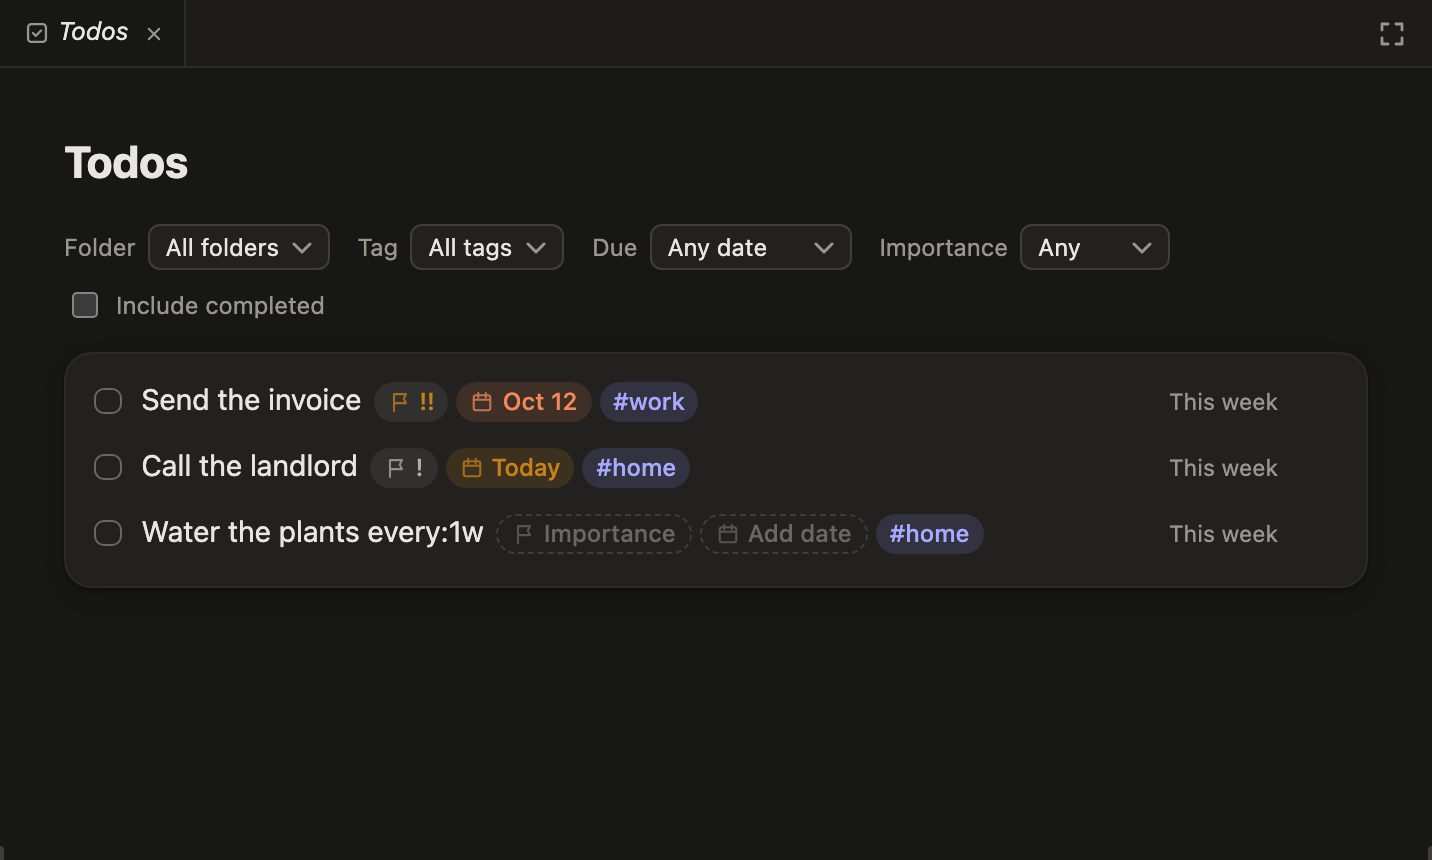
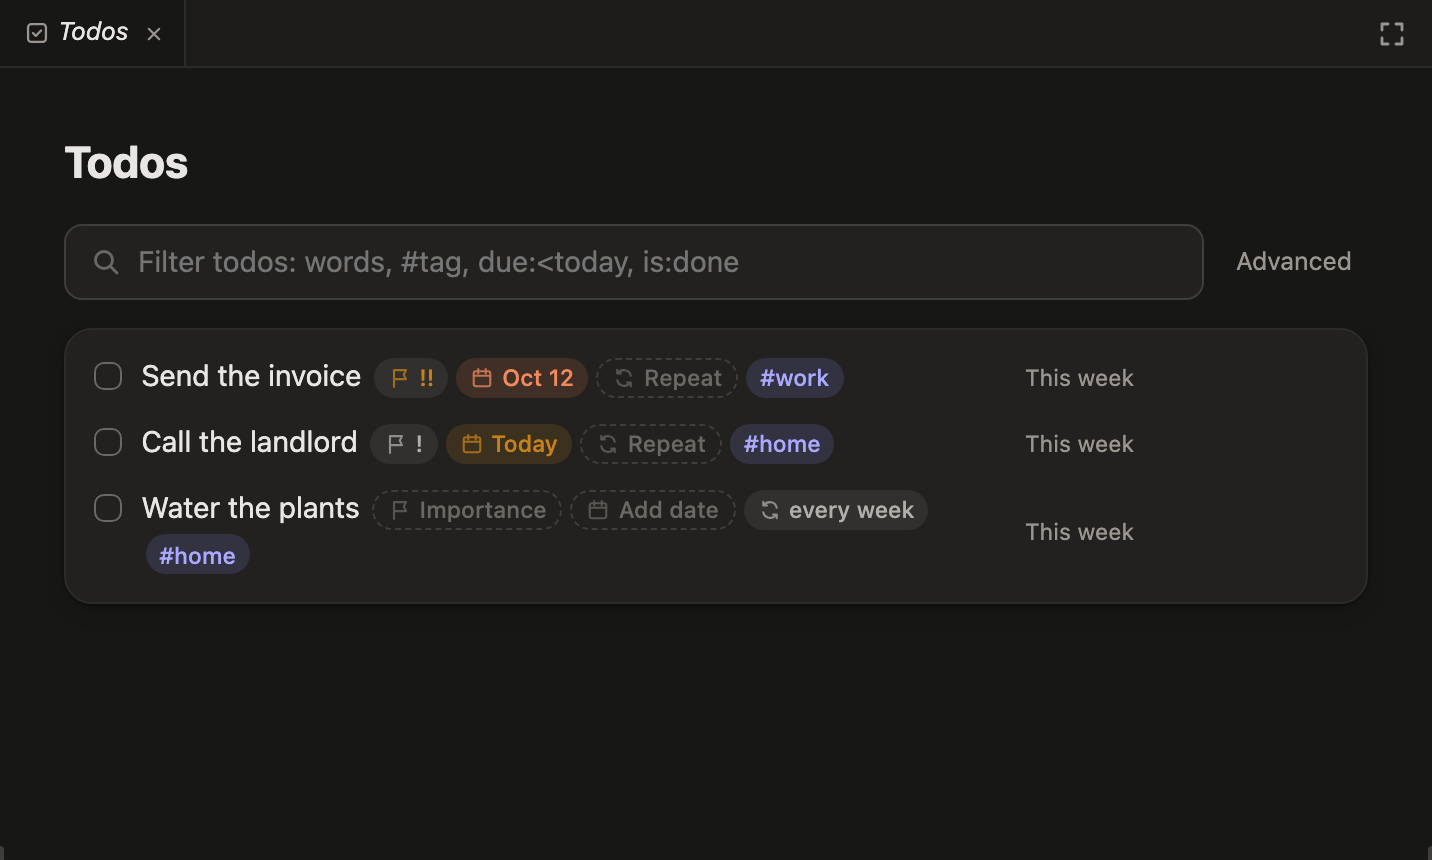
Search: the inspector is about the notes the Search page lists, the query says has:repeat, and the todos of a note in Trash are read-only

diff --git a/test/browser/search.spec.ts b/test/browser/search.spec.ts
@@ -1,5 +1,5 @@
 import { expect, test, type Page } from "@playwright/test";
-import { listedNote, noteIdIn, openAllNotes, perform, signInAsNewPerson } from "./helpers.ts";
+import { listedNote, noteIdIn, openAllNotes, perform, pinPanel, signInAsNewPerson } from "./helpers.ts";
 
 let errors: string[];
 test.beforeEach(({ page }) => {
@@ -33,6 +33,47 @@ const GARDEN = "# Garden plan\n\nPlant the tomatoes by the fence.\n";
 const ERRANDS = "# Errands\n\n- [ ] Call the bank about the mortgage +Home\n";
 const READING = "# Reading\n\nNotes on gardening books #botany\n";
 const SCRAPS = "# Scraps\n\nfence the by, tomatoes later\n";
+
+test("the inspector is about the notes the search lists: Info counts them and History is theirs, and both follow the query", async ({ page }) => {
+  await searching(page, [GARDEN, ERRANDS, READING, SCRAPS]);
+  await pinPanel(page, "Info");
+  const panel = page.getByRole("complementary", { name: "Inspector" });
+  await expect(panel.getByRole("term")).toHaveText(["Showing", "Notes", "Last changed"]);
+  await expect(panel.getByRole("definition").first()).toHaveText("Search");
+  await expect(panel.getByRole("definition").nth(1)).toHaveText("4 notes");
+  await field(page).fill("fence");
+  await expect(titles(page)).toHaveCount(2);
+  await expect(panel.getByRole("definition").first()).toHaveText("Search: fence");
+  await expect(panel.getByRole("definition").nth(1)).toHaveText("2 notes");
+  await page.getByRole("navigation", { name: "Inspector bar" }).getByRole("button", { name: "History" }).click();
+  const changed = panel.getByRole("tree", { name: "Notes that changed" }).locator('[aria-level="1"]');
+  await expect(changed).toHaveCount(2);
+  await expect(changed.filter({ hasText: "Garden plan" })).toHaveCount(1);
+  await expect(changed.filter({ hasText: "Scraps" })).toHaveCount(1);
+  await field(page).fill("tomatoes in:title");
+  await expect(nothing(page)).toBeVisible();
+  await expect(changed).toHaveCount(0);
+});
+
+test("while a search is on its way the inspector says what it said of the last answer, never the new query with the old notes", async ({ page }) => {
+  await searching(page, [GARDEN, ERRANDS, READING, SCRAPS]);
+  await pinPanel(page, "Info");
+  const panel = page.getByRole("complementary", { name: "Inspector" });
+  await expect(panel.getByRole("definition").nth(1)).toHaveText("4 notes");
+  let release!: () => void;
+  const held = new Promise<void>((resolve) => (release = resolve));
+  await page.route("**/ops", async (route) => {
+    if (route.request().postData()?.includes('"type":"search"')) await held;
+    await route.fallback();
+  });
+  await field(page).fill("fence");
+  await expect(status(page)).toContainText("Searching");
+  await expect(panel.getByRole("definition").first()).toHaveText("Search");
+  await expect(panel.getByRole("definition").nth(1)).toHaveText("4 notes");
+  release();
+  await expect(panel.getByRole("definition").first()).toHaveText("Search: fence");
+  await expect(panel.getByRole("definition").nth(1)).toHaveText("2 notes");
+});
 
 test("search finds a note by a word of its text, a todo's words, a tag, and a phrase in quotes", async ({ page }) => {
   await searching(page, [GARDEN, ERRANDS, READING, SCRAPS]);
@@ -643,7 +684,7 @@ test("the ? in Advanced lists every filter and operator with what it means, and 
     expect(forms, form).toContain(form);
   }
   // What is for todos alone is not offered where notes are searched.
-  for (const form of ["due:DAY", "importance:N", "is:done", "has:recurrence", "sort:due-asc"]) expect(forms, form).not.toContain(form);
+  for (const form of ["due:DAY", "importance:N", "is:done", "has:repeat", "sort:due-asc"]) expect(forms, form).not.toContain(form);
   await expect(help.getByRole("row").filter({ hasText: "is:archived" }).first()).toContainText("Archived. A query that doesn't say so leaves archived notes out");
 
   await help.getByRole("button", { name: "is:archived", exact: true }).click();

diff --git a/src/web/plugins/noteList.tsx b/src/web/plugins/noteList.tsx
@@ -1,5 +1,5 @@
 import { useEffect, useId, useLayoutEffect, useMemo, useReducer, useRef, useState, useSyncExternalStore, type KeyboardEvent, type MouseEvent, type ReactNode } from "react";
-import { ALL_NOTES, Icon, NOTE_DRAG, SHARED_WITH_ME, ago, dayOf, folderTitle, parseQuery, queryNames, useNow, type App, type FolderProps, type NoteSummary, type Plugin, type PluginHost, type SearchMatch } from "../plugin-api.ts";
+import { ALL_NOTES, Icon, NOTE_DRAG, SHARED_WITH_ME, ago, dayOf, folderTitle, parseQuery, queryNames, useInspected, useNow, type App, type Showing, type FolderProps, type NoteSummary, type Plugin, type PluginHost, type SearchMatch } from "../plugin-api.ts";
 import { reasonOf } from "./lib/FoundNote.tsx";
 import { lifecycle } from "./lib/lifecycle.ts";
 import { ContextMenu } from "./lib/Menu.tsx";
@@ -35,6 +35,8 @@ export interface FinderProps extends FolderProps {
   queryOnly?: boolean;
   /** Whether the search field takes the keyboard when the list is drawn. */
   autoFocus?: boolean;
+  /** Whether the inspector is about the notes listed, called by the heading and the query, as on the Search page. */
+  inspected?: boolean;
   /** Takes the search out of this folder to every note, for a list that is of one folder. */
   onWiden?: () => void;
 }
@@ -93,7 +95,7 @@ function folderForNew(app: App, folderId: string) {
  * nothing typed it is the notes the app already holds, and nothing is asked of the server. With
  * something typed it is what the server's search finds in the folder, each card with the lines that matched.
  */
-export function NoteFinder({ app, host, folderId, readNote, snippets, view, act, kept, heading, queryOnly, autoFocus, onWiden }: FinderProps) {
+export function NoteFinder({ app, host, folderId, readNote, snippets, view, act, kept, heading, queryOnly, autoFocus, inspected, onWiden }: FinderProps) {
   const ids = useId();
   const now = useNow();
   const { setArchived, items: menuFor } = useMemo(() => lifecycle(host), [host]);
@@ -209,6 +211,13 @@ export function NoteFinder({ app, host, folderId, readNote, snippets, view, act,
     });
   }, [inFolder, search, view.show, view.hasTodos, view.sort, order, namesArchived, namesTrashed, app.notes, app.trashed, folderId]);
   const notes = items.map((item) => item.note);
+  // History is then the history of the notes found, and Info counts them, each following the query.
+  // Told only once the list answers its query: while a search is on its way it says what it said before.
+  const told = useRef<Showing | null>(null);
+  if (inFolder && (!asked || (search.status === "listed" && search.ask.query === asked))) {
+    told.current = { kind: "notes", label: [heading ?? "Notes", view.query.trim()].filter(Boolean).join(": "), noteIds: notes.map((n) => n.id).sort() };
+  }
+  useInspected(app, inspected ? told.current : null);
 
   /**
    * Where the list was scrolled to when it was last drawn. It goes back there as its expanded

diff --git a/test/core/query-ops.test.ts b/test/core/query-ops.test.ts
@@ -281,8 +281,8 @@ describe("todo.list, by each filter", () => {
     expect(await todos(ada, "importance:0")).toEqual(["Tidy the roadmap"]);
     expect(await todos(ada, "importance:<2")).toEqual(["Tidy the roadmap"]);
     expect(await todos(ada, "importance:1..2 (is:archived OR is:open)")).toEqual(["Call the bank #urgent", "Shred it"]);
-    expect(await todos(ada, "has:recurrence")).toEqual(["Ship the plan"]);
-    expect(await todos(ada, "no:recurrence")).toEqual(["Call the bank #urgent", "Tidy the roadmap"]);
+    expect(await todos(ada, "has:repeat")).toEqual(["Ship the plan"]);
+    expect(await todos(ada, "no:repeat")).toEqual(["Call the bank #urgent", "Tidy the roadmap"]);
   });
 
   it("looks for words in the todo's own line, or with in:title in its note's title, and narrows by what its note is", async () => {
@@ -336,13 +336,13 @@ describe("todo.list, by each filter", () => {
   it("knows which todos recur from the index, and of a note indexed before it could say so once the note is read in again", async () => {
     const ada = await newMember();
     const note = await perform(env.DB, ada, { type: "note.create", text: "# Chores\n\n- [ ] Water plants every:3d\n- [ ] Read the docs on `every:2w`\n- [ ] Sweep" });
-    expect(await todos(ada, "has:recurrence")).toEqual(["Water plants"]);
+    expect(await todos(ada, "has:repeat")).toEqual(["Water plants"]);
     // As the migration leaves a line it can't read the rule of: marked by the look of it, until the note is read in again.
     await env.DB.batch([env.DB.prepare("UPDATE todos SET recurs = text LIKE '% every:%' WHERE note_id = ?").bind(note.id), env.DB.prepare("UPDATE notes SET indexed = 3 WHERE id = ?").bind(note.id)]);
-    expect(await todos(ada, "has:recurrence")).toEqual(["Water plants"]);
+    expect(await todos(ada, "has:repeat")).toEqual(["Water plants"]);
     expect((await env.DB.prepare("SELECT indexed FROM notes WHERE id = ?").bind(note.id).first<{ indexed: number }>())!.indexed).toBe(4);
     await perform(env.DB, ada, { type: "todo.set", id: note.id, revision: 1, line: 4, text: "- [ ] Sweep", every: "1w" });
-    expect((await todos(ada, "has:recurrence")).sort()).toEqual(["Sweep", "Water plants"]);
+    expect((await todos(ada, "has:repeat")).sort()).toEqual(["Sweep", "Water plants"]);
 
     // And a line's words, which the migration can only put in small letters: an accent is found once the note is read in again.
     const menu = await perform(env.DB, ada, { type: "note.create", text: "# Menu\n\n- [ ] Order Crème brûlée" });

diff --git a/test/browser/todos.spec.ts b/test/browser/todos.spec.ts
@@ -1308,6 +1308,19 @@ test("the toast is v1's: in the bottom right corner in the app's colours, Task c
   expect(Date.now() - left).toBeGreaterThan(1500);
 });
 
+test("the todos of a note in Trash are listed as one the member can only view: no box to check, no words to edit, nothing to set", async ({ page }) => {
+  await signInAsNewPerson(page, "Ada Lovelace");
+  const note = await perform(page, { type: "note.create", text: "# Old\n\n- [ ] Shred it #paper\n" });
+  await perform(page, { type: "note.trash", id: note.id });
+  await page.goto("/todos?q=is%3Atrashed");
+  await expect(words(page)).toHaveText(["Shred it"]);
+  await expect(row(page, "Shred it").getByRole("checkbox")).toBeDisabled();
+  await expect(row(page, "Shred it").getByRole("button", { name: /^Edit / })).toHaveCount(0);
+  await expect(row(page, "Shred it").locator(".todo-chip[data-unset]")).toHaveCount(0);
+  await expect(fieldsOf(page, "Shred it")).toHaveCount(0);
+  await expect(row(page, "Shred it").getByRole("button", { name: "#paper", exact: true })).toBeVisible();
+});
+
 test("the inspector is about the notes the listed todos are in: Info counts them and History is theirs", async ({ page }) => {
   await twoNotes(page);
   await perform(page, { type: "note.create", text: "# No todos\n\nJust words." });

diff --git a/test/core/access-matrix.test.ts b/test/core/access-matrix.test.ts
@@ -669,7 +669,7 @@ const TODO_FILTERS: Record<string, Row[]> = {
     { query: "is:private", finds: ["secret", "vpriv"] },
     { query: "is:shared", finds: ({ name, agent }) => (agent ? [] : NOTES.filter((note) => sharesNote(name, note))) },
   ],
-  has: [{ query: "has:due", finds: [] }, { query: "no:due", finds: NOTES }, { query: "has:recurrence", finds: [] }, { query: "no:recurrence has:tag", finds: NOTES }, { query: "has:link", finds: ["secret"] }, { query: "has:backlink", finds: ({ sees }) => (sees("secret") ? ["open"] : []) }],
+  has: [{ query: "has:due", finds: [] }, { query: "no:due", finds: NOTES }, { query: "has:repeat", finds: [] }, { query: "no:repeat has:tag", finds: NOTES }, { query: "has:link", finds: ["secret"] }, { query: "has:backlink", finds: ({ sees }) => (sees("secret") ? ["open"] : []) }],
   due: [{ query: "due:<today", finds: [] }, { query: "-due:<today", finds: NOTES }, { query: "due:2020-01-01..2030-01-01", finds: [] }],
   importance: [{ query: "importance:0", finds: NOTES }, { query: "importance:>=1", finds: [] }, { query: "importance:0..3", finds: NOTES }],
   in: [{ query: "todo-team", finds: ["team"] }, { query: "Title-team", finds: [] }, { query: "Title-team in:title", finds: ["team"] }, { query: "body-team in:body", finds: [] }],

diff --git a/test/core/agent-folders.test.ts b/test/core/agent-folders.test.ts
@@ -532,7 +532,7 @@ describe("an agent limited to folders", () => {
     for (const query of ["Hideout", "importance:3", "sharedtodo importance:>2", "is:shared", "is:private", "has:backlink", "#hushtag", "sharedtodo -folder:Projects", "Hush-outside in:title", "is:done"]) {
       expect(await claude.call("list_todos", { query, today }), query).toEqual(none);
     }
-    for (const query of ["", "sharedtodo", "due:<today", "due:2026-10-01", "importance:>=2", "has:recurrence", "has:due", "#sharedtag", "sort:importance-desc", "sharedtodo OR Hideout", "-Hideout", "NOT is:shared", "Budget in:title", "is:open OR is:done"]) {
+    for (const query of ["", "sharedtodo", "due:<today", "due:2026-10-01", "importance:>=2", "has:repeat", "has:due", "#sharedtag", "sort:importance-desc", "sharedtodo OR Hideout", "-Hideout", "NOT is:shared", "Budget in:title", "is:open OR is:done"]) {
       expect(await listed(query), query).toEqual([tagged.id]);
       expect((await claude.json<Listed>("list_todos", { query, today, limit: 1 })).next, `${query}: one todo, and no page after it`).toBeNull();
     }

diff --git a/test/browser/window.spec.ts b/test/browser/window.spec.ts
@@ -677,8 +677,13 @@ test("the inspector's bar has an icon for each panel whatever is in front, with 
   await bar.getByRole("button", { name: "Info" }).click();
   await expect(inspector(page).getByRole("definition")).toHaveText(["Unsorted", "1 note", "just now by Ada Lovelace"]);
 
+  // The Search page says what it lists; a page that says nothing has nothing to show.
   await page.getByRole("link", { name: "Search" }).click();
   await expect(page.getByRole("heading", { name: "Search" })).toBeVisible();
+  expect(await listedIn(bar, "button")).toEqual(icons);
+  await expect(inspector(page).getByRole("definition")).toHaveText(["Search", "1 note", "just now by Ada Lovelace"]);
+  await page.getByRole("link", { name: "Calendar" }).click();
+  await expect(page.getByRole("heading", { name: "Calendar" })).toBeVisible();
   expect(await listedIn(bar, "button")).toEqual(icons);
   await expect(inspector(page).locator(".inspector-body")).toHaveText("Nothing to show for this view");
   await toggleInspector(page);

diff --git a/test/core/query.test.ts b/test/core/query.test.ts
@@ -69,7 +69,8 @@ const READS: [typed: string, scope: Scope, query: Query, printed: string][] = [
   ["no:todo", "notes", q(not(filter("has", "todo"))), "no:todo"],
   ["-has:todo", "notes", q(not(filter("has", "todo"))), "no:todo"],
   ["-no:link", "notes", q(filter("has", "link")), "has:link"],
-  ["has:due no:recurrence", "todos", q(and(filter("has", "due"), not(filter("has", "recurrence")))), "has:due no:recurrence"],
+  ["has:due no:repeat", "todos", q(and(filter("has", "due"), not(filter("has", "repeat")))), "has:due no:repeat"],
+  ["has:recurrence no:recurrence", "todos", q(and(filter("has", "repeat"), not(filter("has", "repeat")))), "has:repeat no:repeat"],
   ["importance:>=2", "todos", q(filter("importance", "2", ">=")), "importance:>=2"],
   ["importance:1..3", "todos", q(filter("importance", "1", "=", "3")), "importance:1..3"],
   ["importance:03", "todos", q(filter("importance", "3")), "importance:3"],

diff --git a/src/web/plugins/search/Search.tsx b/src/web/plugins/search/Search.tsx
@@ -9,7 +9,7 @@ import { addressOf, queryIn } from "./request.ts";
  * field, and with the query as its one control: which notes, whether they have todos and the order
  * are said in it, typed or built under Advanced. The address is the search. Typing writes it there
  * after a pause, and a link, a reload, or Back brings one back. Which cards are expanded is the
- * page's own, for as long as it is shown.
+ * page's own, for as long as it is shown. The inspector is about the notes it lists.
  */
 export function SearchPage({ host, app }: { host: PluginHost; app: App }) {
   const [expanded, setExpanded] = useState<ListView["expanded"]>({});
@@ -32,6 +32,7 @@ export function SearchPage({ host, app }: { host: PluginHost; app: App }) {
       heading="Search"
       queryOnly
       autoFocus
+      inspected
     />
   );
 }

diff --git a/src/core/query.ts b/src/core/query.ts
@@ -192,7 +192,7 @@ export const FILTERS = {
         { word: "backlink", scopes: BOTH, means: "Linked to from a note you can see", sql: (c) => `EXISTS (SELECT 1 FROM links l JOIN notes b ON b.id = l.source_id WHERE l.target_id = n.id AND ${c.seen("b")})` },
         { word: "tag", scopes: BOTH, means: "Has any tag", sql: () => "EXISTS (SELECT 1 FROM note_tags g WHERE g.note_id = n.id)" },
         { word: "due", scopes: TODOS, means: "Has a due date", sql: () => "t.due IS NOT NULL" },
-        { word: "recurrence", scopes: TODOS, means: "Recurs", sql: () => "t.recurs = 1" },
+        { word: "repeat", aliases: ["recurrence"], scopes: TODOS, means: "Repeats", sql: () => "t.recurs = 1" },
       ],
     },
     compares: false,

diff --git a/src/core/protocol.ts b/src/core/protocol.ts
@@ -269,7 +269,7 @@ export const Op = z.discriminatedUnion("type", [
   /**
    * The todos in the notes the asker can see that `query` finds, in the same language as search's:
    * words are looked for in the todo's own line, and `is:done`, `due:`, `importance:`, `has:due` and
-   * `has:recurrence` are of the todo. With no query it is every open todo. Done ones are listed when
+   * `has:repeat` are of the todo. With no query it is every open todo. Done ones are listed when
    * the query says `is:done`, and both with `is:open OR is:done`. Open ones come first, then by due
    * date with those that have none last, then the most important, unless the query's `sort:` says otherwise.
    *

diff --git a/src/web/plugins/todos/Todos.tsx b/src/web/plugins/todos/Todos.tsx
@@ -164,7 +164,8 @@ function Row({ todo, now, narrowedTo, tags, app, titleOf, picked, completing, on
   }, [picked, todo.text]);
   // So is the field its words are edited in, and nothing typed there is saved to the one that came.
   const editedOn = useRef<string | null>(null);
-  const readOnly = todo.access !== "edit";
+  // A note in Trash takes no change until it is restored, so its todos are shown as one the member can only view.
+  const readOnly = todo.access !== "edit" || app.trashed.some((n) => n.id === todo.noteId);
   const words = plainly(todo.words, titleOf) || "Nothing written";
   const { lead, trailing } = splitTags(todo.words);
   const row = keyOf(todo);
